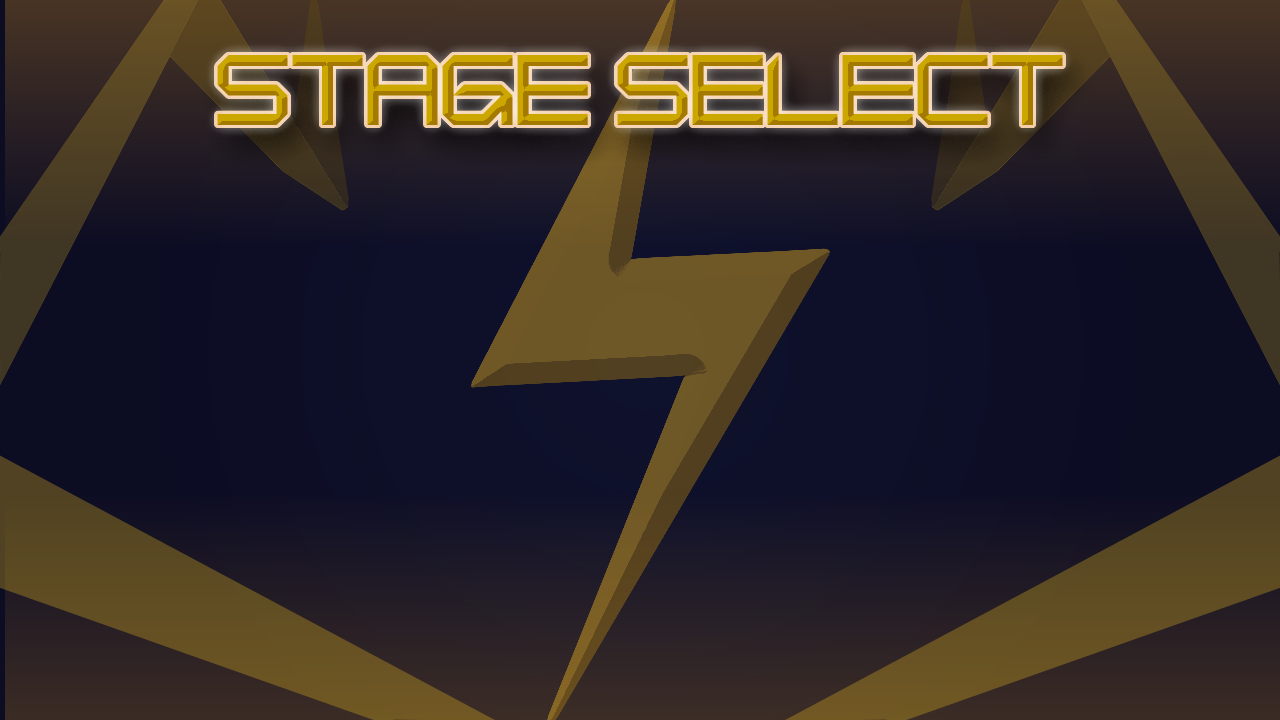
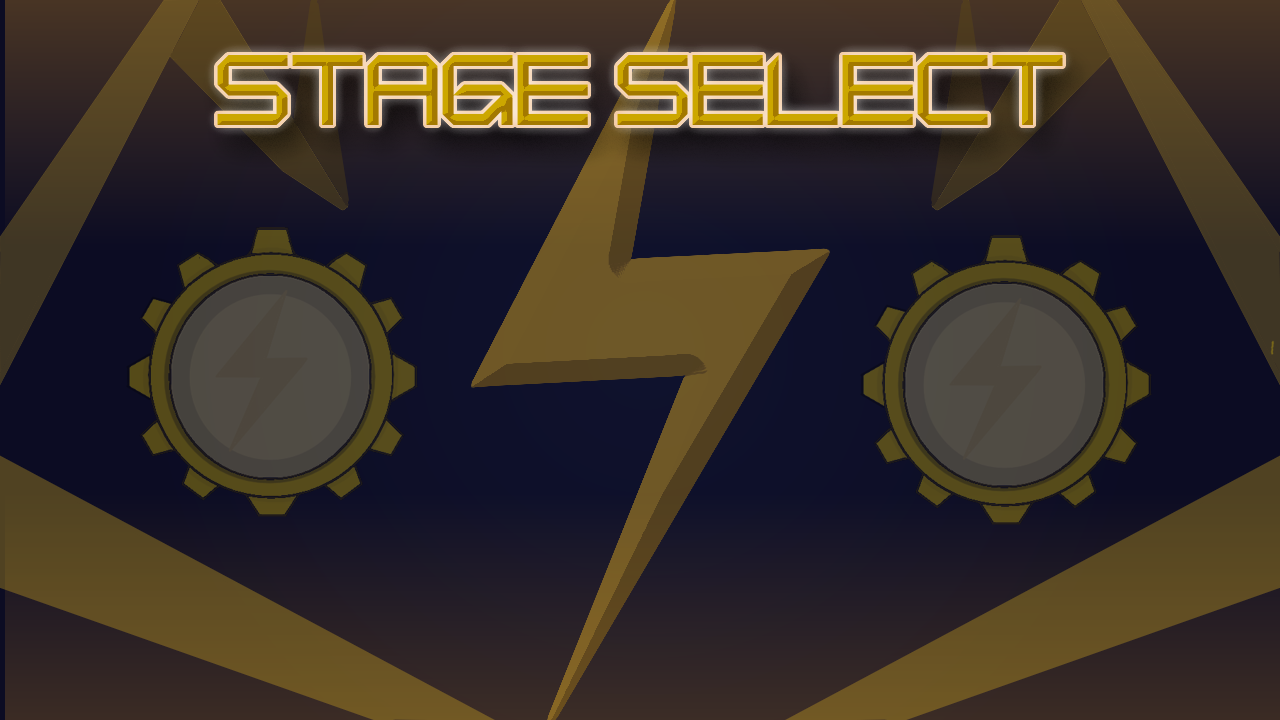
ステージを入れ替え

Changed region(s): [[0.0938, 0.3056, 0.3438, 0.7333], [0.6562, 0.3361, 0.9062, 0.7333]]

diff --git a/Scene.cpp b/Scene.cpp
@@ -128,11 +128,11 @@ void SceneGame::Update()
 			{
 				scene->tutorial->ConnectLimitInitialize();
 			}
-			if (scene->stageManager->selectStage == STAGE::STAGE6)
+			if (scene->stageManager->selectStage == STAGE::STAGE4)
 			{
 				scene->tutorial->ButtonInitialize();
 			}
-			if (scene->stageManager->selectStage == STAGE::STAGE8)
+			if (scene->stageManager->selectStage == STAGE::STAGE6)
 			{
 				scene->tutorial->ElectricInitialize();
 			}
